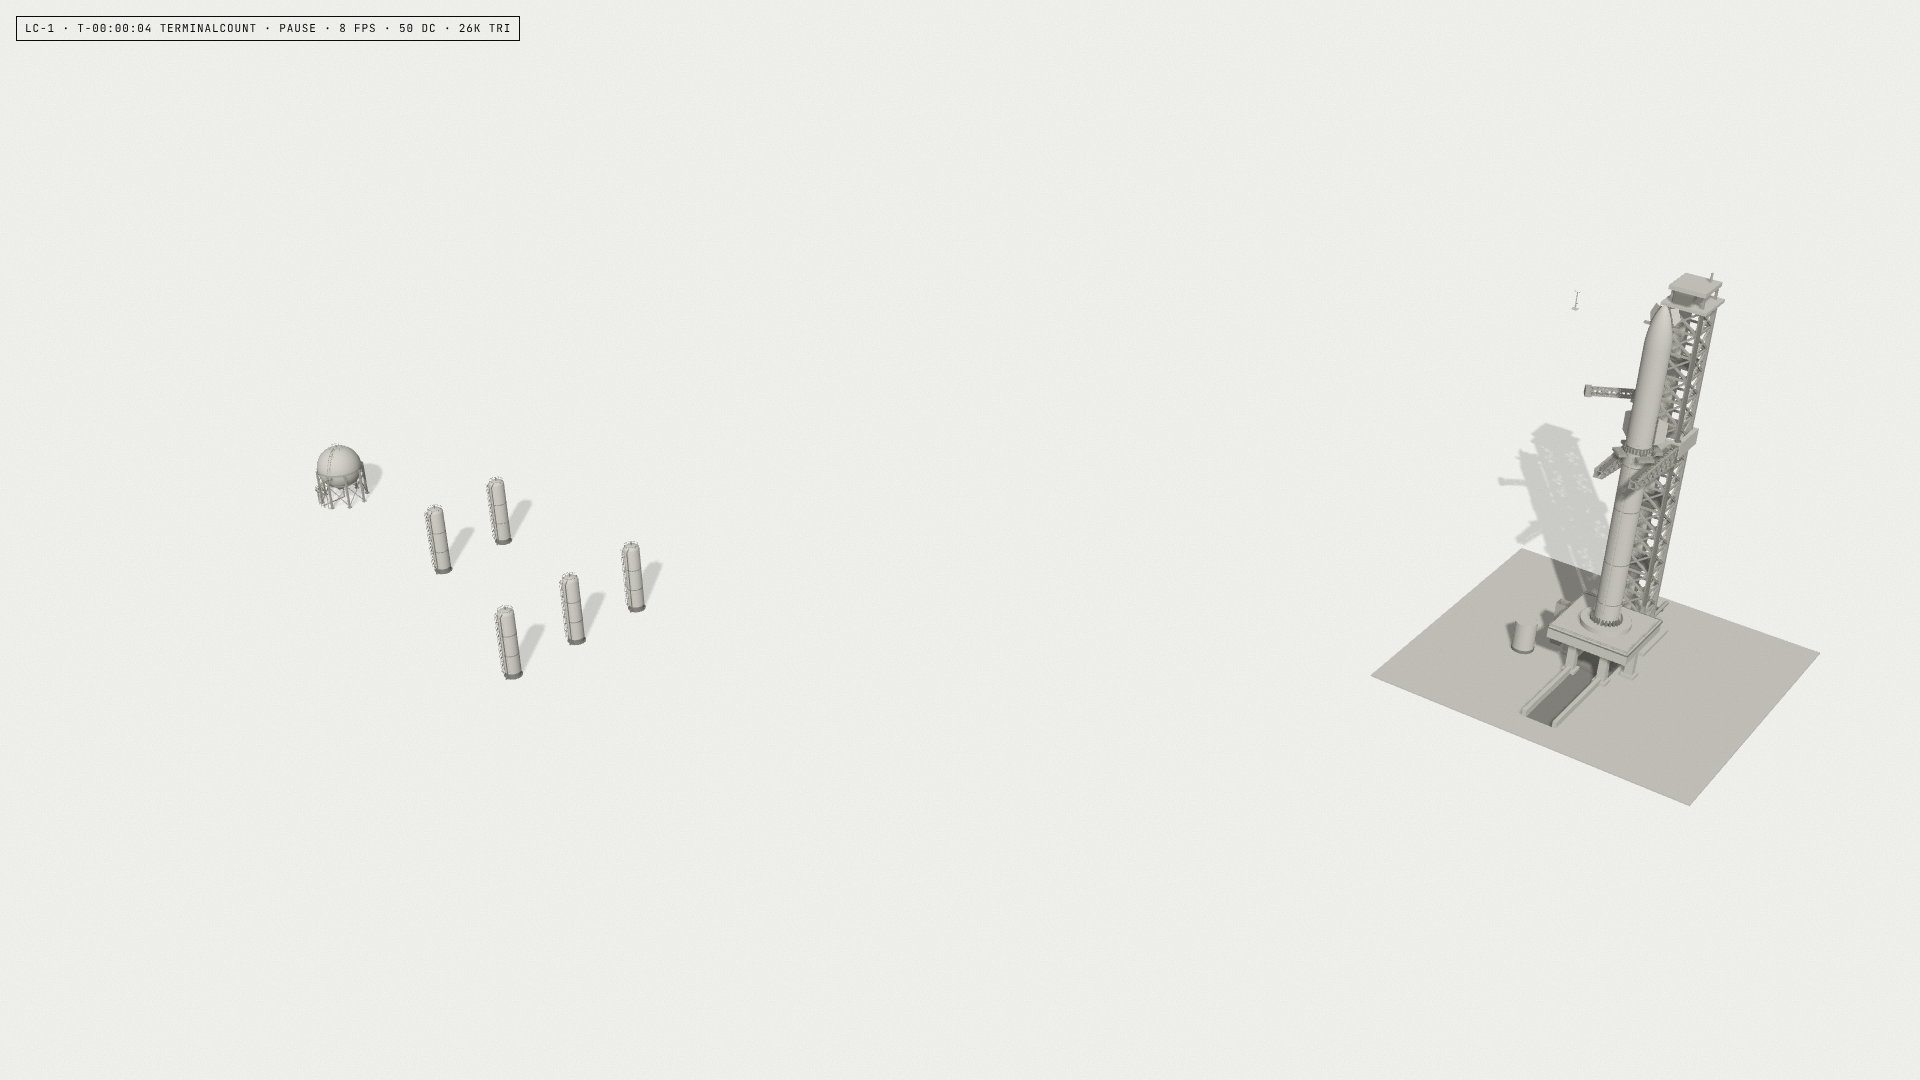
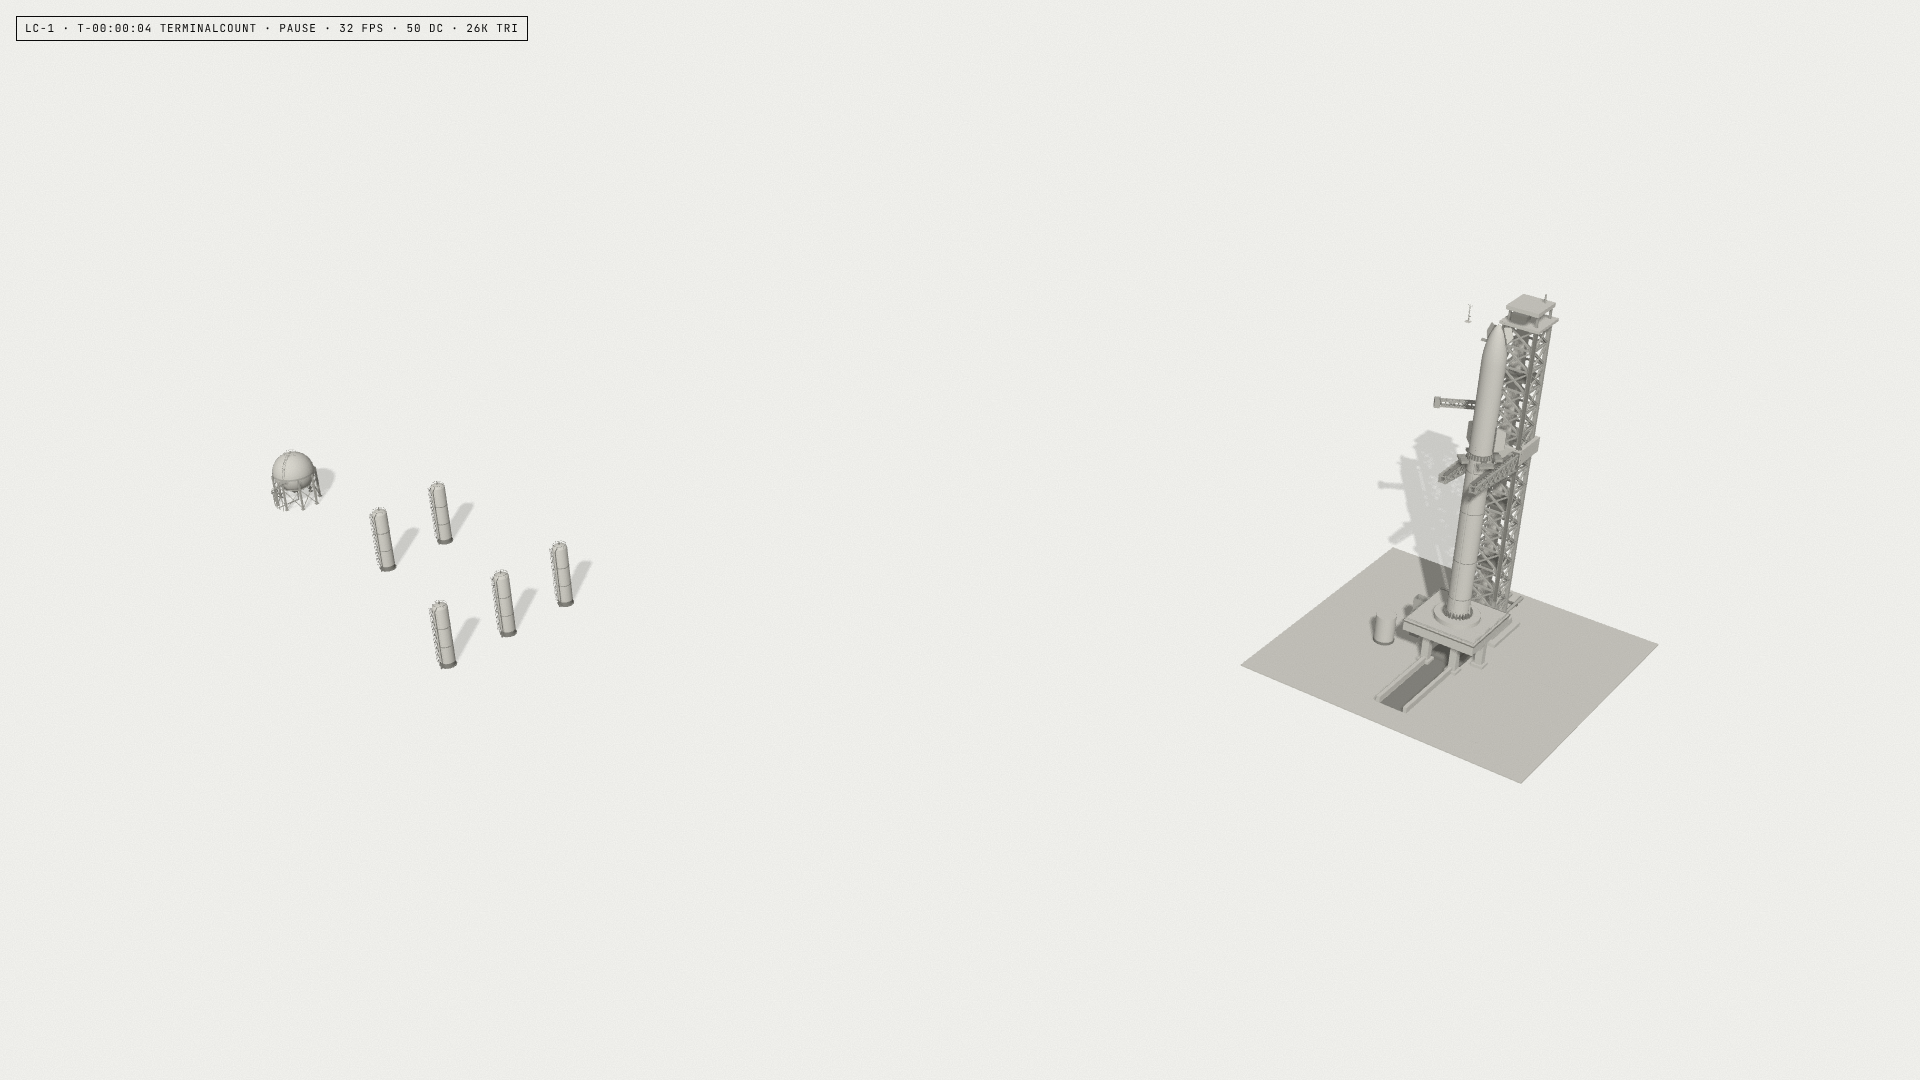
render: scene foundation, game loop + SimHost, __fuelx debug hooks (5.1, 5.2, 5.8)
Finishes the Phase 5 foundation on top of the WIP snapshots: camera-centred subdivided ground (a two-triangle 400 km plane z-fought the pad apron), fill calibrated to the Blender _stack.png preview, PCF shadows (PCFSoft is removed in three 0.186), home framing showing pad, tower, stack and tank farm. Unit tests cover interpolation, SUN_DIR vs blender/lib/preview.py, the fixed-step accumulator, the snapshot writer and jumpTo equivalence with the golden harness; tests avoid Node APIs so they type-check under the browser tsconfig. e2e drives /play.html?debug=1 and writes docs/screens/phase5-*.png with FUELX_SCREENS=1. ARCHITECTURE records the as-built contracts (Float64 snapshot, adapter writer, lighting/fog/shadow constants).

Claude-Session: https://claude.ai/code/session_01MKuGrQT92puETiFgpRPtgR

Changed region(s): [[0.6562, 0.2444, 0.9688, 0.7639], [0.125, 0.3972, 0.3438, 0.6417]]

diff --git a/tests/e2e/scene.e2e.ts b/tests/e2e/scene.e2e.ts
@@ -130,16 +130,18 @@ test.describe('scene', () => {
       await fx.frames(90);
       const at100 = fx.stats();
       fx.pause();
+      const tSave = fx.state().tick;
       const json = fx.save();
       fx.step(90);
       await fx.load(json);
       const t2 = fx.state().tick;
-      return { t0, t1, t2, scale, version: fx.version, at100 };
+      return { t0, t1, t2, tSave, scale, version: fx.version, at100 };
     });
     console.log('100x live', JSON.stringify(r.at100));
     expect(r.t1 - r.t0).toBe(30);
     expect(r.scale.requested).toBe(10);
-    expect(r.t2).toBe(r.t1);
+    expect(r.tSave).toBeGreaterThan(r.t1); // ran live at 100×
+    expect(r.t2).toBe(r.tSave);
     expect(r.version).toMatch(/^\d+\.\d+\.\d+\+schema\.\d+$/);
     expect(errors).toEqual([]);
   });

diff --git a/src/render/world/sun.test.ts b/src/render/world/sun.test.ts
@@ -1,11 +1,10 @@
-import { readFileSync } from 'node:fs';
-import { resolve } from 'node:path';
 import { describe, expect, it } from 'vitest';
+// Vite raw import: no Node APIs, so this test type-checks under the browser tsconfig.
+import py from '../../../blender/lib/preview.py?raw';
 import { SUN_DIR, SUN_ROTATION_DEG, sunDirection } from './sun';
 
 describe('SUN_DIR (shared with the Blender previews)', () => {
   it('uses the same rotation as blender/lib/preview.py', () => {
-    const py = readFileSync(resolve(import.meta.dirname, '../../../blender/lib/preview.py'), 'utf8');
     const m = /SUN_ROTATION_DEG\s*=\s*\(([^)]*)\)/.exec(py);
     expect(m).not.toBeNull();
     const rot = (m?.[1] ?? '').split(',').map((v) => Number(v.trim()));

diff --git a/src/app/version.test.ts b/src/app/version.test.ts
@@ -1,13 +1,9 @@
-import { readFileSync } from 'node:fs';
-import { resolve } from 'node:path';
 import { describe, expect, it } from 'vitest';
+import pkg from '../../package.json';
 import { APP_VERSION } from './version';
 
 describe('APP_VERSION', () => {
   it('equals package.json version', () => {
-    const pkg = JSON.parse(readFileSync(resolve(import.meta.dirname, '../../package.json'), 'utf8')) as {
-      version: string;
-    };
     expect(APP_VERSION).toBe(pkg.version);
   });
 });

diff --git a/docs/ARCHITECTURE.md b/docs/ARCHITECTURE.md
@@ -93,6 +93,14 @@ function frame(now: number) {
 - **Pause**: sim stops; camera, labels, map controls and HUD interaction keep running.
 - **Background tab**: rAF stops → `MAX_FRAME_DT` clamp → on return the game resumes, it does not fast-forward.
 
+**As built (5.1/5.2/5.8)** — `src/app/{loop.ts, game.ts, bus.ts, jump.ts, debug.ts, time/time-control.ts, sim-host/}`, `src/render/{Scene.tsx, snapshot.ts, systems/, views/, world/}`. No new dependencies (three's own `GLTFLoader` + `MeshoptDecoder` via R3F `useLoader`; drei not used; adaptive DPR is in-house).
+- **Entry**: the game is `play.html` → `src/main.tsx` (`index.html` is the public showcase). `Game` is built once outside React; `App` renders `<Scene>` once + a temporary readout written imperatively at 4 Hz.
+- **SimHost**: `InlineSimHost` implements the worker-ready `SimHost` (`send`, `advance({maxSteps, budgetMs, stopOn})`, `drainEvents`, Promise-shaped `newGame/jump/save/load`). Autopilot (= `STANDARD_AUTOPILOT`, default on until the HUD exists) commands are logged with queued commands as session inputs. The outbox is moved into a host buffer every tick and drained to the bus once per frame. `jump` steps headless and writes the snapshot once at the end; a unit test proves it reaches the golden harness world hash.
+- **RenderSnapshot** (`src/render/snapshot.ts`): `prev/curr` are **Float64Array** (x y z qx qy qz qw flags) so the floating origin subtracts before float32; copies touch only `[0, used)`. Flags: `ALIVE, SNAP, HIDDEN, ON_MOUNT, ON_CARGO`. Written per tick by `src/app/sim-host/snapshot-writer.ts` (adapter until the sim's bookkeeping owns it — same contract). Render lifts mounted/carried stages by PAD `SOCKET_VehicleMount` / TRANSPORTER `SOCKET_Cargo` read from the GLBs; boosters in BOOSTBACK/DESCENT/CAUGHT use absolute sim y (see TASKS 5.0b). `anim` arrays are allocated, filled in 5.4.
+- **Render systems** are plain classes driven from `useFrame` (React Compiler lint forbids mutating props in components): RenderSync (−30, lerp/nlerp, floating origin on the followed entity), Camera (−20, interim orbit rig, fov 30°, pitch 8–85°, dist 40 m–30 km), Environment (−10), Ground (−5), RenderPass (+1, renders + copies `renderer.info`, main + shadow passes).
+- **Lighting**: `SUN_DIR` derived from `blender/lib/preview.py` `SUN_ROTATION_DEG` (test parses it), intensity 2.2; hemisphere paper/shadow-tint at π·0.3 (calibrated to `_stack.png`); no tone mapping (`flat`, = Blender Standard). Fog linear to paper, near = 1.1 × camera distance, far = max(6 km, 14 ×). Shadow: one 2048² PCF map, box half = clamp(0.55 × distance, 120, 900 m) texel-snapped on the camera target, re-rendered only when the box/origin moves or something moves within 900 m. Casters: hero structures, vehicles, tanks, buildings (not vans/tankers/boats/WX).
+- **Ground placeholder**: paper land / `seaBase` sea + shadow catcher, re-centred under the target each frame and sized to the fog (two-triangle 400 km planes z-fought the 0.5 m apron).
+
 ## 4. Per-tick data flow
 
 ```
@@ -456,7 +464,7 @@ Tables live in `src/sim/entities/machines.ts`; implemented booster/ship states a
 
 ## 9. Debug hooks — `window.__fuelx`
 
-Installed by `src/app/debug.ts` when `import.meta.env.DEV` **or** the URL has `?debug=1` (so `perf-audit` can use a production build). Every method is safe to call from Playwright `page.evaluate`.
+Installed by `src/app/debug.ts` when `import.meta.env.DEV` **or** the URL has `?debug=1` (so `perf-audit` can use a production build: `/play.html?debug=1`). Every method is safe to call from Playwright `page.evaluate`. As built (5.8): `state()` returns `UiProjectionStub` (`src/app/projection/stub.ts`) until 6.1; `reactCommitsPerS` counts commits of both React roots through a minimal DevTools global hook (works in production); `drawCalls`/`triangles` include the shadow pass; `seed()` defaults `autopilot: true`; jumping to a passed target rejects `JUMP_TARGET_NOT_REACHED`.
 
 ```ts
 interface FuelxDebug {

diff --git a/docs/TASKS.md b/docs/TASKS.md
@@ -54,14 +54,14 @@ Legend: `[ ]` todo · `[~]` in progress · `[x]` done · **owner** · ← depend
 ## Phase 5 — Scene
 - [x] 5.0 Sim follow-up from TOWER as-built (ASSETS_GUIDE): keep the tower carriage out of 92–106 m while the QD arm is engaged — **simulation-engineer** · done: `src/sim/systems/tower.ts` carriage / arms / QD state at data rates (BALANCING §14, flagged for review), interlock both ways, carriage = pin height (86 / 135 / 126 m), save schema 2 (ARCHITECTURE §7.9)
 - [ ] 5.0b Sim/data follow-up from BOOSTER/SHIP as-built: catch pins are 66 m above the booster origin, so `flightProfile` CATCH altitude 60 m (booster origin) means carriage at 126 m (not the 86 m rest, which is the on-mount pin height); ship stacking = carriage 135 m. Confirm the convention in `site-lc1.catchPoint` — **simulation-engineer** + **game-designer**
-- [ ] 5.1 R3F canvas (`frameloop="never"`, driven by app loop), lights, fog/haze from tokens, adaptive DPR — **three-graphics-engineer** ← 2.6
-- [ ] 5.2 GameLoop + SimHost + RenderSnapshot + RenderSync with interpolation; floating origin — ← 3.9, 5.1
+- [x] 5.1 R3F canvas (`frameloop="never"`, driven by app loop), lights, fog/haze from tokens, adaptive DPR — **three-graphics-engineer** ← 2.6
+- [x] 5.2 GameLoop + SimHost + RenderSnapshot + RenderSync with interpolation; floating origin — ← 3.9, 5.1
 - [ ] 5.3 Point-cloud sea + ground (dithered, GPU-animated, ≤ 300 k points) — ← 5.1
 - [ ] 5.4 Entity views from generated wrappers (placeholders behind same API until GLB exists), animated nodes from sim state — ← 4.x, 5.2
 - [ ] 5.5 Camera rig: follow/focus/frame/home, clamps, lerp, `snap` for screenshots — AC 25 — ← 5.2
 - [ ] 5.6 FX: exhaust, deluge/steam, foam/wake, recovery rings — ← 5.2
 - [ ] 5.7 Post: single EffectPass (SMAA + halftone/dither); `freezeVisuals` — ← 5.1
-- [ ] 5.8 `window.__fuelx` debug hooks (ARCHITECTURE §9) + first visual baselines — **qa-perf** ← 5.2
+- [x] 5.8 `window.__fuelx` debug hooks (ARCHITECTURE §9) + first visual baselines — **qa-perf** ← 5.2
 - [ ] 5.9 `perf-audit` on the 3 reference scenes — **qa-perf** ← 5.3–5.7
 - [ ] ⛳ Gate 5 — screenshots: terminal count, ascent follow, catch
 
